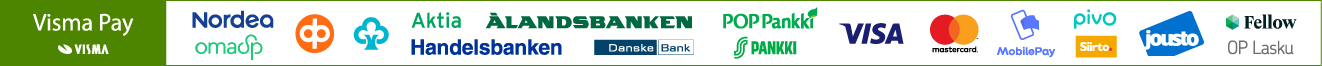
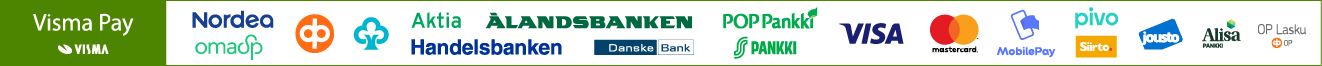
Version 1.0.3
- Rebrand Fellow Lasku to Alisa Lasku and Fellow Yrityslasku to Alisa Yrityslasku

diff --git a/translations/fi.php b/translations/fi.php
@@ -31,8 +31,8 @@ $_MODULE['<{vismapay}prestashop>vismapay_4d3df28e3e68ed692ae51475bbe0860d'] = 'K
 $_MODULE['<{vismapay}prestashop>vismapay_5f32937e9f12fdccb3fd3f4fcd074b07'] = 'Ota korttimaksut käyttöön maksusivulla.';
 $_MODULE['<{vismapay}prestashop>vismapay_6624c2c1512c438ccb4adcfc4febf8c4'] = 'Luottolaskut';
 $_MODULE['<{vismapay}prestashop>vismapay_a54c2e46aedc8b32d6ef324dc7b7bc7c'] = 'Ota lasku- ja osamaksu-maksutavat käyttöön maksusivulla.';
-$_MODULE['<{vismapay}prestashop>vismapay_f03fc70f74a00401e93d9fbb132e8140'] = 'Fellow Yrityslasku';
-$_MODULE['<{vismapay}prestashop>vismapay_ae6208e9f2251a76ee77e51b938061ff'] = 'Ota Fellow Yrityslasku käyttöön maksusivulla.';
+$_MODULE['<{vismapay}prestashop>vismapay_fc46416347a9611ea8fa4c0227079b5e'] = 'Alisa Yrityslasku';
+$_MODULE['<{vismapay}prestashop>vismapay_4279eb4ad73434d4e96950a115d9de74'] = 'Ota Alisa Yrityslasku käyttöön maksusivulla.';
 $_MODULE['<{vismapay}prestashop>vismapay_21cc25b16f564443ba65e9fadf966a0a'] = 'Lähetä tuote-erittely maksurajapintaan.';
 $_MODULE['<{vismapay}prestashop>vismapay_fc2b4eb2c692b7a15e826678ba481033'] = 'Ota käyttöön, poista päältä tai pakota tuote-erittelyn lähetys. Yleensä arvon tulisi olla Käytössä.';
 $_MODULE['<{vismapay}prestashop>vismapay_dc2eb84d1f952ad0e6b58014aabd616a'] = 'Pakota';

diff --git a/vismapay.php b/vismapay.php
@@ -13,7 +13,7 @@ class VismaPay extends PaymentModule
 	{
 		$this->name = 'vismapay';
 		$this->tab = 'payments_gateways';
-		$this->version = '1.0.2';
+		$this->version = '1.0.3';
 		$this->author = 'Visma';
 		$this->currencies = true;
 		$this->banner_images = glob(dirname(__FILE__).'/views/img/banners/*.{jpg,jpeg,gif,png}', GLOB_BRACE);
@@ -381,8 +381,8 @@ class VismaPay extends PaymentModule
 			),
 			array(
 				'type'      => 'radio',
-				'label'     => $this->l('Fellow Yrityslasku'),
-				'desc'      => $this->l('Enable Fellow Yrityslasku in the Visma Pay payment page.'),
+				'label'     => $this->l('Alisa Yrityslasku'),
+				'desc'      => $this->l('Enable Alisa Yrityslasku in the Visma Pay payment page.'),
 				'name'      => 'VP_SELECT_LASKUYRITYKSELLE',
 				'class'     => 't', 
 				'values'    => array(

diff --git a/vismapay-php-lib/Visma/VismaPay.php b/vismapay-php-lib/Visma/VismaPay.php
@@ -66,7 +66,7 @@ class VismaPay
 		else
 			$payment_data['plugin_info'] .= '0';
 
-		$payment_data['plugin_info'] .= '|1.0.2';
+		$payment_data['plugin_info'] .= '|1.0.3';
 
 		return $this->makeRequest($url, $payment_data);
 	}
